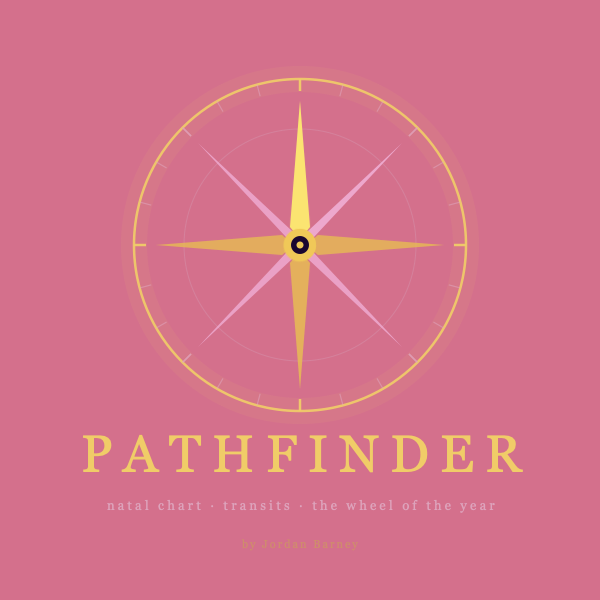
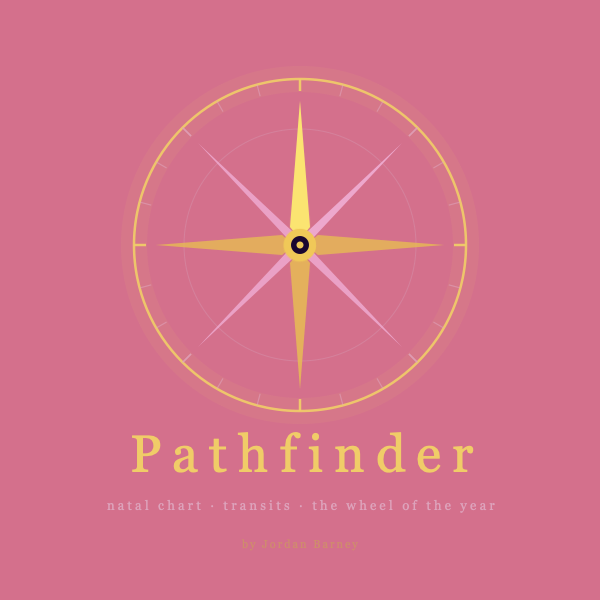
Session 19 docs + Pathfinder (title case) on OG preview

Changed region(s): [[0.12, 0.72, 0.87, 0.81]]

diff --git a/app/build-log.md b/app/build-log.md
@@ -4,6 +4,33 @@
 
 ---
 
+## 2026-06-13 — Session 19: Audits · patch script · card copy · OG preview · geo-bg fix
+
+**Theme:** Quality pass across all builds + tooling infrastructure
+
+### Audits (all 4 new builds)
+- Ran 4 parallel audit agents on hazel, iza, su, yvonne — all passed 23-item checklist clean
+- geo-bg audit via new patch script surfaced REAL gaps in mimi (1/12) + carina (0/12) that Session 17 agents missed — fixed both to 12/12
+
+### Archetype card copy
+- All friend builds had 3-paragraph body text overflowing the 462px fixed card height
+- Trimmed hazel, yvonne, iza, dasha, mimi (P3), carina (P1+P2), su to match Kate's shape: 3 short paras, P3 = one-liner kicker
+- CSS scroll approach was tried and rejected — copy must fit the card, not scroll
+
+### Patch script — `app/patch.py`
+- Built: decorator registry, --change / --dry-run / --only / --list CLI
+- 3 starter patches: `geo-bg-check` (read-only audit), `og-title-check` (read-only audit), `card-back-padding` (structural example)
+- Fixed Python 3.9 type annotation compatibility (3.10+ `list[str] | None` syntax)
+- First real audit run: `geo-bg-check` caught mimi+carina gaps immediately
+
+### OG preview — square redesign
+- Replaced 1200×630 wide landscape with 600×600 square
+- Large centered compass rose (same rose-gold palette), PATHFINDER title centered below, tagline + attribution
+- `twitter:card` changed from `summary_large_image` to `summary` across all 10 builds
+- No more edge cropping when shared via iMessage/text
+
+---
+
 ## 2026-06-13 — Session 18: Friend chart migrations — Hazel · Iza · Su · Yvonne + icon + PWA
 
 **Theme:** Migrate remaining friends with birth data to 9-tab Pathfinder app; rose-gold icon redesign; PWA + social preview system across all builds

diff --git a/build-digest.md b/build-digest.md
@@ -7,7 +7,7 @@ tags:
 
 # Build Digest — Pathfinder App
 *Cold-start synthesis. Load at the start of any build or business session. Updated at session end.*
-*Last updated: 2026-06-13 (Session 17)*
+*Last updated: 2026-06-13 (Session 19)*
 
 ---
 
@@ -26,7 +26,8 @@ tags:
 | Su natal chart (su.html) | ✅ Live | 9-tab Pathfinder, voice canon complete, Archetype: "The Interior Press" — quill sigil, numeral I, 4 synastry contacts |
 | Yvonne natal chart (yvonne.html) | ✅ Live | 9-tab Pathfinder, voice canon complete, Archetype: "The Interior Witness" — witnessing eye sigil, numeral XX, 8 synastry contacts (close friend) |
 | PWA icon (rose-gold) | ✅ Live | Bright compass rose, 24 tick marks, rose/gold gradient bg, glow filters — all friend builds + jordan.html |
-| Social preview system | ✅ Live | OG + Twitter card meta on all 10 charts; per-person manifests; og-preview.png 1200×630 |
+| Social preview system | ✅ Live | OG + Twitter card meta on all 10 charts; per-person manifests; og-preview.png **600×600 square** (twitter:card=summary) — no edge cropping when shared |
+| Patch script | ✅ Live | `app/patch.py` — decorator registry, --change/--dry-run/--only/--list; 3 starter patches (geo-bg-check, og-title-check, card-back-padding) |
 | Sky at Work icon + PWA | ✅ Live | Night-city-at-dawn cityscape icon, standalone manifest, distinct from Pathfinder compass rose |
 | Daily reads | ✅ Live | Overnight automation running ✓ — first run June 12 |
 | Transit library | ✅ Live | Applying / separating / returning states, accordion detail, first/second pass timing |
@@ -86,6 +87,7 @@ See `app/beta-users.md` for full detail.
 ---
 
 ## Recent Wins
+- Session 19 (June 13): All-builds quality pass — 4 audit agents clean, archetype card copy trimmed to Kate's shape across 7 builds, patch script live, OG preview redesigned as 600×600 square, mimi+carina geo-bg fixed (both now 12/12).
 - Session 18 (June 13): Hazel, Iza, Su, Yvonne all migrated to 9-tab Pathfinder app — all 8 active friend builds now live. Rose-gold icon redesign shipped. Social preview system (OG + per-person PWA manifests) deployed across all charts. Sky at Work gets its own icon + PWA manifest.
 - Session 17 (June 13): Mimi, Carina, Kate all migrated to 9-tab Pathfinder app format — full voice canon, unique archetype flip cards with personal sigils + palettes, synastry-with-Jordan in Arc panel. Deployed to Vercel. Old scrolling mimi.html archived.
 - Session 16 continued (June 12): New Moon rituals written + shipped for Jordan and Marina (natal-personalized, gold card format); all 3 apps now have ⊙/☽/⊕ nav icons + compass rose PWA icon; design system library launched (md + HTML)